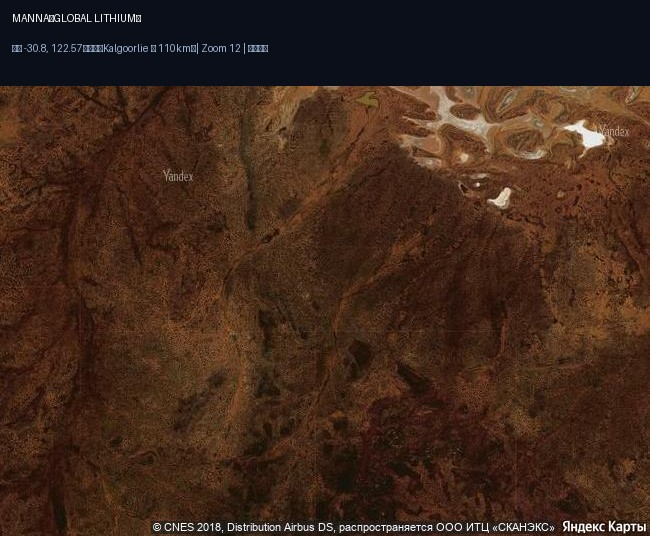
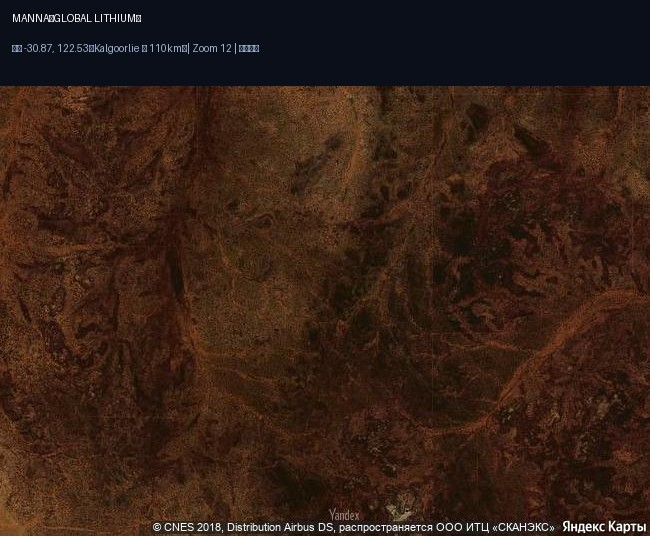
Manna 数据修正（浮选工艺/236ktpa 官方产能/收购史/坐标）

diff --git a/data.js b/data.js
@@ -2476,7 +2476,7 @@ const YONGAN_DATA = {
    "mine_cn": "Manna（曼纳矿山）",
    "report": "Global Lithium July 2026 Investor Presentation（2026-07-28）；Manna MDCP approved 公告（2026-08-04）；Manna DFS Results 公告（2025-12-04）；Quarterly Activities Report（2026-07-31）",
    "source_url": "https://globallithium.com.au/lithium-assets/manna-lithium-project/",
-   "equity_note": "100% 资产口径（Global Lithium Resources 全资，ASX: GL1）；**未投产/开发阶段矿山**——Kalgoorlie 锂矿区第三大资源；2021-11 完成 100% 收购；2024-06-12 资源 +43%（51.6Mt）；2025-08-25 Mining Lease M28/414 授予；2025-12-04 DFS 完成；2026-08-04 MDCP 批准；FID 目标 Q4 2026；首批 DSO Q2 2027、首产 SC5.5 精矿 2027 年中",
+   "equity_note": "100% 资产口径（Global Lithium Resources 全资，ASX: GL1）；**未投产/开发阶段矿山**——Kalgoorlie 锂矿区第三大资源；原权属 Breaker Resources（BRB，2018-11 发现），GL1 2021-12-30 收购 80%（A$33M 上限）+ 2022-11-15 收购剩余 20%（A$60M，BRB 保留贵金属权 + 1.5% NSR）；2024-06-12 资源 +43%（51.6Mt）；2025-08-25 ML M28/414 授予（21 年期）；2025-12-03 优化 DFS 完成；2026-08-04 MDCP 批准；FID 目标 Q4 2026；首批 DSO Q2 2027、首产 SC5.5 精矿 2027 年中",
    "history_labels": [
     [
      "production",
@@ -2526,12 +2526,12 @@ const YONGAN_DATA = {
      "operation_changes": "26Q2 未投产：开发推进——2026-07-15 Nova 收购公告（A$7m）、2026-08-04 MDCP 批准、FID 目标 Q4 2026；DFS（2025-12-04）经济参数：NPV8 A$472M、IRR 25.7%、Payback 3.5 年、capex A$439.1M（绿地）、AISC US$738/t SC5.5、LOM 14.3 年",
      "prev_operation_changes": "26Q1 开发推进：Lopal 战略融资（2026-04-22，配售 A$7.3m + 40% 包销 + US$75M 预付款）、Marble Bar 出售（A$14.85M，专注 Manna）",
      "highlights": [
-      "MDCP 批准（2026-08-04，DMIRS）——Manna 开发关键许可，略早于内部时间表（超预期）",
+      "MDCP 批准（2026-08-04，DMIRS）——Manna 开发关键许可，略早于内部时间表（超预期）；2024Q4-2025Q1 曾因锂价下行暂停 DFS（2025-01-29 季报官方确认）+ 249D 股东行动/诉讼干扰（2024-09 至 2025-02），2025-12-03 恢复发布优化 DFS",
       "Nova 收购（2026-07-15）：A$7m 获 1.8Mtpa 选矿厂 → 首产精矿目标 2027 年中（vs 绿地厂更晚）",
       "FID 目标 Q4 2026 + 首批 DSO Q2 2027——fast-track 时间表",
       "DFS（2025-12-04）：NPV8 A$472M、IRR 25.7%、Payback 3.5 年、Breakeven US$784/t SC6.0——价格韧性",
-      "Kalgoorlie 锂矿区第三大资源：51.6Mt @ 1.00% + Maiden 储量 19.4Mt @ 0.91%（LOM 14.3 年）",
-      "Lopal 战略合作：40% 包销 + US$75M 预付款（FID 后）+ A$7.3m 配售——资金与下游双锁定"
+      "Kalgoorlie 锂矿区第三大资源：51.6Mt @ 1.00%（≥0.6% 边界）+ Maiden 储量 19.4Mt @ 0.91%（LOM 14.3 年）；Esperance 港出口 MOU（2025-12-18，Southern Ports）",
+      "Lopal 战略合作（2026-04-22）：40% 产量包销（10 年 SC5.5，前三年地板价 US$1,000/t CIF）+ US$75M 预付款融资 + A$7.32M 配售（2026-05-28 完成，Lopal ~5%）——资金与下游双锁定；既有 Canmax（原 Suzhou TA&A）10 年最低 30% 包销（2022-03-02，2025-04-08 变更续期）"
      ]
     }
    },
@@ -2559,8 +2559,8 @@ const YONGAN_DATA = {
     "summary": "Manna 为 Kalgoorlie 锂矿区第三大资源（51.6Mt @ 1.00%）+ Maiden 储量 19.4Mt @ 0.91%（LOM 14.3 年）；DFS（2025-12-04）绿地厂 capex A$439.1M；2026-07-15 Nova 收购战略（1.8Mtpa 选矿厂）将 Manna 矿石运至 Nova 加工，首产 SC5.5 精矿目标 2027 年中；FID 目标 Q4 2026、首批 DSO Q2 2027。",
     "items": [
      {
-      "line": "选矿产能（Nova 1.8Mtpa 厂 vs Manna 绿地厂）",
-      "excel_capacity": "Nova 1.8Mtpa 原矿（收购改造）vs Manna 绿地厂（DFS）",
+      "line": "选矿产能（Manna DFS 浮选厂 vs Nova 1.8Mtpa 厂）",
+      "excel_capacity": "Manna DFS：1.8Mtpa 磨机 → 236,470 tpa SC5.5；Nova：1.8Mtpa concentrator（收购）",
       "verified": "✓ 2026-07 展示 + DFS 双来源",
       "sources": [
        {
@@ -2568,8 +2568,8 @@ const YONGAN_DATA = {
         "data": "GL1 to acquire 100% of Nova Operation (approx. 170km south of Manna) securing an established processing plant——1.8Mtpa concentrator plus power, camp and site infrastructure；substantial capex savings vs Manna greenfield plant；first spodumene concentrate targeted mid-2027"
        },
        {
-        "src": "Manna DFS（2025-12-04）",
-        "data": "Pre-production CAPEX A$439.1M（Manna 绿地厂口径）；LOM AISC US$738/t (SC5.5) excl sea freight；Breakeven US$784/t SC6.0"
+        "src": "Manna 优化 DFS（2025-12-03）",
+        "data": "精矿产能 236,470 tpa SC5.5（干吨）、LOM 总 SC5.5 精矿 2.76Mt、目标品位 ≥5.5% Li₂O、LOM 平均回收率 72.8%；磨机产能 1.8Mtpa（预选后 1.5-1.6Mtpa）；剥采比 14.9、第 7 年起地下（sublevel open stoping）；CAPEX A$439.1M（动迁 81.9 + 选厂 157.5 + 间接 49.3 + 业主 110.4 + 应急 40.0）+ 可选 10MW 光伏 A$20M；NPV8 A$472M（税后含权利金）、IRR 25.7%、Payback 3.5 年、Breakeven US$784/t SC6.0、AISC US$738/t SC5.5（不含海运费）"
        },
        {
         "src": "Nova 收购公告（2026-07-15）",
@@ -2578,37 +2578,37 @@ const YONGAN_DATA = {
       ]
      },
      {
-      "line": "加工流程",
-      "excel_capacity": "DMS 重介质（SC5.5 精矿）",
-      "verified": "✓ DFS/展示口径",
+      "line": "加工流程（⚠ 非 DMS——浮选工艺）",
+      "excel_capacity": "三段破碎 + 矿石预选 + 单球磨 + 浮选 + 脱泥/云母浮选/磁选",
+      "verified": "✓ DFS 原文确认（DMS not suitable）",
       "sources": [
        {
-        "src": "2026-07 投资者展示",
-        "data": "SC5.5 Spodumene Concentrate production planned for mid 2027；DSO operation 先行（Q2 2027）"
+        "src": "Manna 优化 DFS（2025-12-03）",
+        "data": "Dense-Media Separation (DMS) technology is not suitable for the Manna deposit——三段破碎 + 矿石预选（ore sorting）+ 单一球磨 + 浮选 + 脱泥/云母浮选/磁选；2023-11-16 冶金试验确认浮选路线"
        },
        {
-        "src": "MDCP 公告（2026-08-04）",
-        "data": "First SC5.5 Spodumene Concentrate production planned for mid 2027"
+        "src": "2026-07 投资者展示 / MDCP 公告（2026-08-04）",
+        "data": "First SC5.5 Spodumene Concentrate production planned for mid 2027；DSO operation 先行（Q2 2027）"
        }
       ]
      },
      {
-      "line": "全矿合计（2027 目标）",
-      "excel_capacity": "Nova 厂 1.8Mtpa 原矿 → ~200ktpa SC5.5（估算）",
-      "verified": "⚠ 精矿产能为推算（1.8Mtpa 原矿 × 品位/回收率），官方未发布精矿 ktpa",
+      "line": "全矿合计（DFS 设计 vs Nova 路线）",
+      "excel_capacity": "DFS：236,470 tpa SC5.5（LOM 14.3 年）；Nova 路线：1.8Mtpa concentrator 改造",
+      "verified": "✓ DFS 官方产能（236,470 tpa）",
       "sources": [
        {
-        "src": "推算（1.8Mtpa × 1.0% × 70% 回收 / 5.5%）",
-        "data": "~230ktpa SC5.5 上限——待 DFS/整合研究确认精矿产能"
+        "src": "Manna 优化 DFS（2025-12-03）",
+        "data": "SC5.5 年产能 236,470 t（干吨）、LOM 总 SC5.5 精矿 2.76Mt——官方精矿产能"
        },
        {
         "src": "2026-07 投资者展示",
-        "data": "Manna-Nova Integration Study underway to quantify capex reduction and capture cashflow from DSO production"
+        "data": "Nova 1.8Mtpa concentrator 收购（A$7m）→ capex 削减 + 首产提前（mid-2027）；Manna-Nova Integration Study underway to quantify capex reduction and capture cashflow from DSO production"
        }
       ]
      }
     ],
-    "note": "核实时间：2026-08-05。关键结论：① 未投产矿山——资源 51.6Mt @ 1.00%、储量 19.4Mt @ 0.91%（LOM 14.3 年）；② DFS（2025-12-04）：capex A$439.1M（绿地）、NPV8 A$472M、IRR 25.7%、AISC US$738/t SC5.5；③ Nova 收购（2026-07-15，A$7m）1.8Mtpa 选矿厂 → 首产精矿目标 2027 年中（提前于绿地厂）；④ FID 目标 Q4 2026、首批 DSO Q2 2027；⑤ 精矿 ktpa 产能官方未发布（页面按 Nova 1.8Mtpa 推算并注明）。",
+    "note": "核实时间：2026-08-05。关键结论：① 未投产矿山——资源 51.6Mt @ 1.00%、储量 19.4Mt @ 0.91%（LOM 14.3 年）；② DFS（2025-12-04）：capex A$439.1M（绿地）、NPV8 A$472M、IRR 25.7%、AISC US$738/t SC5.5；③ Nova 收购（2026-07-15，A$7m）1.8Mtpa 选矿厂 → 首产精矿目标 2027 年中（提前于绿地厂）；④ FID 目标 Q4 2026、首批 DSO Q2 2027；⑤ 精矿产能官方值 236,470 tpa SC5.5（DFS）；⑥ 注意 2023 Scoping Study（2.0Mtpa/NPV A$2.8B@US$2,500 高价假设）与 2025 优化 DFS（1.8Mtpa/NPV A$472M）勿混用——以 DFS 为准。",
     "sources_index": {
      "技术报告": "Manna DFS（2025-12-04）、MRE 更新（2024-06-12）",
      "公司公告": "MDCP 批准（2026-08-04）、Nova 收购（2026-07-15）、Lopal 融资（2026-04-22）",
@@ -2646,8 +2646,8 @@ const YONGAN_DATA = {
          "data": "multiple open pits: one main (Manna Main) and two satellites (Manna North and Manna South)；waste rock and dry stack tailings, ore stockpiles, accommodation village, bore field, topsoil stockpiles"
         },
         {
-         "src": "官网",
-         "data": "outcropping spodumene and lepidolite bearing pegmatite deposit；110km east of Kalgoorlie；Mining Lease M28/414（2025-08-25）"
+         "src": "官网/DFS/MDCP",
+         "data": "110km east of Kalgoorlie-Boulder（Kalgoorlie-Boulder 郡）on Mining Lease M28/414；坐标 ≈ -30.87, 122.53（MGA94 Zone 51 换算 + miningdataonline -30.864, 122.574 印证）——Lake Roe 项目区内、Bombora 金矿体西南 15km；LCT 伟晶岩脉群：脉厚 1-14m 平均 3.6m、倾向 -60~-70° SE"
         }
        ]
       },
@@ -2656,8 +2656,16 @@ const YONGAN_DATA = {
        "status": "✅ 资源确认（第三大）",
        "sources": [
         {
-         "src": "官网/DFS（2025-12-04）",
-         "data": "MRE 51.6Mt @ 1.00% Li₂O（2024-06-12 公告 +43%）；Maiden Ore Reserve 19.4Mt @ 0.91% Li₂O → LOM 14.3 年（82% 采矿库存由储量支撑）"
+         "src": "MRE 更新（2024-06-12，现行）",
+         "data": "MRE 51.6Mt @ 1.00% Li₂O（≥0.6% Li₂O 边界、Fe<8%，JORC 2012）：Indicated 32.9Mt @ 1.04%/52ppm + Inferred 18.7Mt @ 0.92%/50ppm（LCE 1,276kt）；敏感性：0.5%→55.7Mt@0.97%、0.8%→39.5Mt@1.09%、1.0%→22.8Mt@1.22%"
+        },
+        {
+         "src": "DFS 储量（2025-12-03）",
+         "data": "Maiden Ore Reserve 19.4Mt @ 0.907% Li₂O（全部 Probable）：露天 14.4Mt @ 0.93%（0.5% 边界）+ 地下 5.0Mt @ 0.84%（0.6% 边界）→ LOM 14.3 年（82% 采矿库存由储量支撑）"
+        },
+        {
+         "src": "历史资源链",
+         "data": "9.9Mt @ 1.14%（2022-02-16 首次，80% 权益）→ 50.7Mt（2022-12-14，Manna 32.7Mt@1.0%）→ 36.0Mt @ 1.13%（2023-07-26）→ 51.6Mt（2024-06-12 +43%）"
         },
         {
          "src": "区域位置图（官网）",
